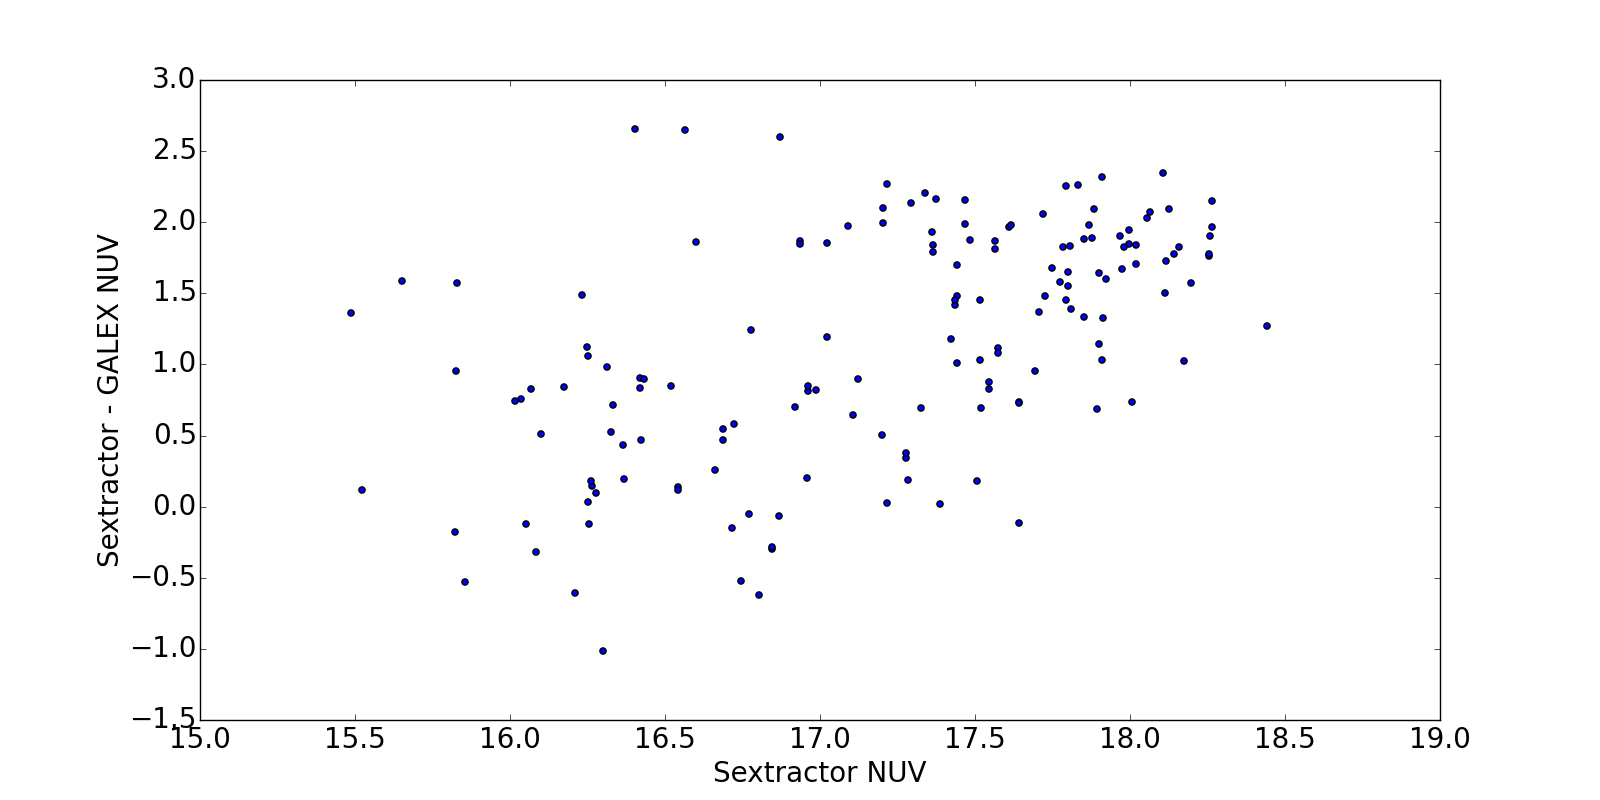
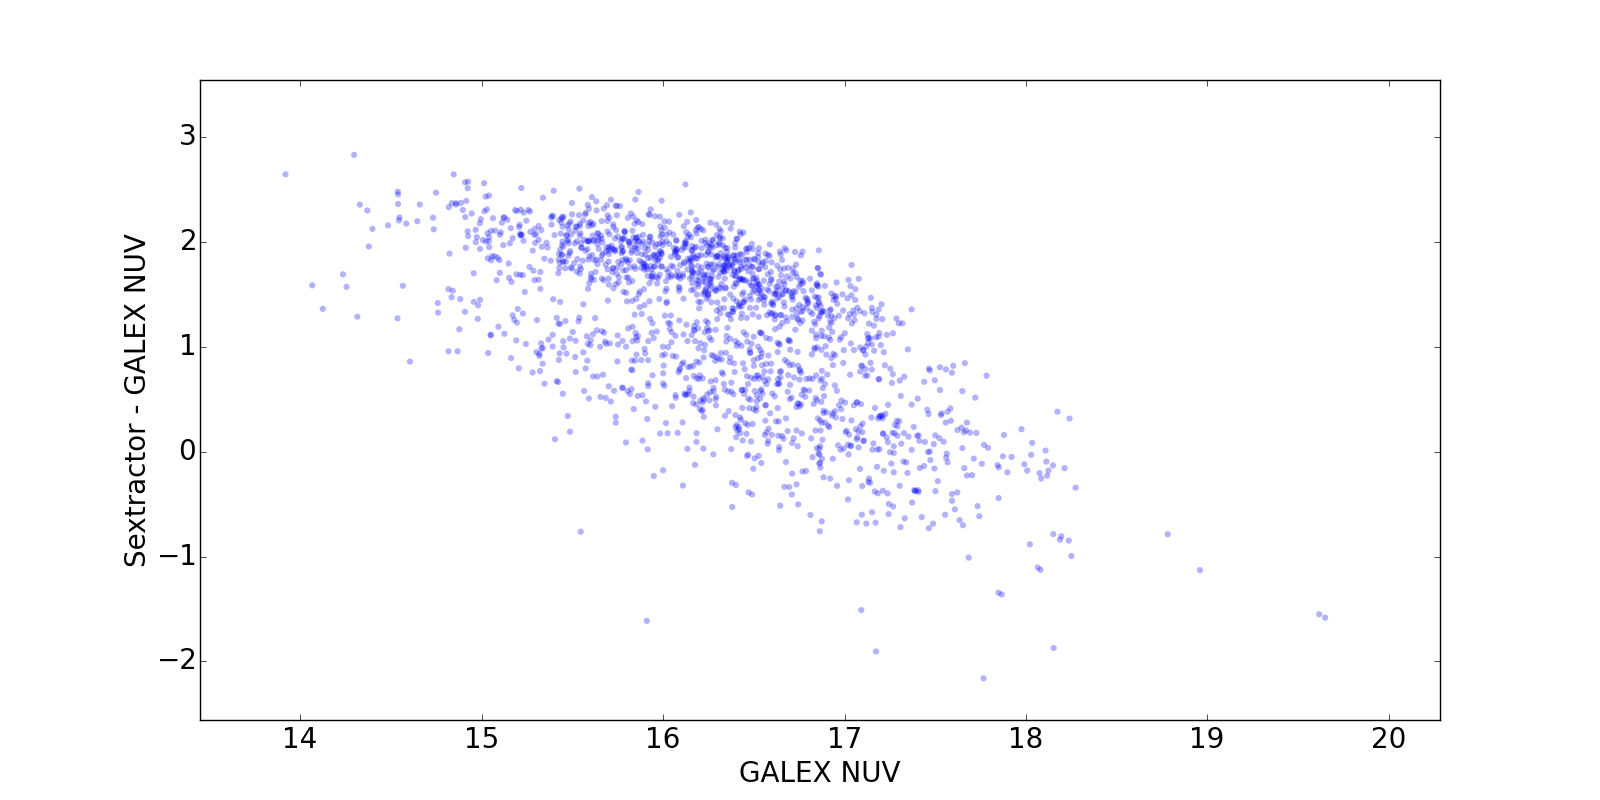
Edited GALEX sky image

diff --git a/pipeline/misc.py b/pipeline/misc.py
@@ -99,3 +99,51 @@ for i in range(2000):
             pass
 
 
+star = fits.open('starcatalog_120_rand_deadtime.fits')[1].data
+galex = Table.read('galex120_2mass_t2.txt',format='ascii')
+pickles = Table.read('picklemags.txt',format='ascii')
+
+stargal = SkyCoord(star.gl*u.deg,star.gb*u.deg,frame='galactic')
+galexgal = SkyCoord(galex['gl']*u.deg,galex['gb']*u.deg,frame='galactic')
+starind, galexind, angsep, dist3d = search_around_sky(stargal, galexgal, 6.*u.arcsec)
+star2 = star[starind]
+galex2 = galex[galexind]
+
+i = 120
+gbrange = 5.
+scut = np.where((np.abs(star2.gb) > gbrange) & (star2.gl > i) & (star2.gl < i+20))
+scut2 = np.where((np.abs(star2.gb) < gbrange) & (star2.gl > i) & (star2.gl < i+20))
+ncut = np.where(np.abs(galex2['gb']) > gbrange)
+ncut2 = np.where(np.abs(galex2['gb']) < gbrange)
+f, (ax1, ax2) = plt.subplots(1, 2)
+plt.rc('legend',**{'fontsize':15})
+a1 = ax1.scatter(galex2['nuv_mag'][ncut],star2.nuv[scut]-galex2['nuv_mag'][ncut],edgecolor='none',alpha=0.2)
+ax1.set_title('gb > '+str(gbrange)+', gl = '+str(i)+' to '+str(i+20))
+ax1.set_xlim((13,20))
+ax1.set_ylim((-2,3))
+ax1.set_xlabel('GALEX NUV')
+ax1.set_ylabel('SExtractor - GALEX NUV')
+#ax1.plot([-0.5,1.5],[3,12])
+#a2 = ax1.scatter(galex['j_m'][ncut]-galex['k_m'][ncut],galex['nuv_mag'][ncut]-galex['j_m'][ncut],facecolor='none',edgecolor='red',s=30,alpha=0.2)
+#a3 = ax1.scatter(pickles['j']-pickles['k'],pickles['nuv']-pickles['j'],c='black',s=5)
+#for j in range(len(pickles)):
+#    ax1.annotate(pickles['name'][j][:-4],xy=(pickles['j'][j]-pickles['k'][j],pickles['nuv'][j]-pickles['j'][j]),size=12)
+#ax1.legend([a1,a2,a3],['sextractor','galex','pickles'],scatterpoints=1,loc=2)
+
+
+a2 = ax2.scatter(galex2['nuv_mag'][ncut2],star2.nuv[scut2]-galex2['nuv_mag'][ncut2],edgecolor='none',alpha=0.2)
+ax2.set_title('gb < '+str(gbrange)+', gl = '+str(i)+' to '+str(i+20))
+ax2.set_xlim((13,20))
+ax2.set_ylim((-2,3))
+ax2.set_xlabel('GALEX NUV')
+ax2.set_ylabel('SExtractor - GALEX NUV')
+#ax2.plot([-0.5,1.5],[3,12])
+#b2 = ax2.scatter(galex['j_m'][ncut2]-galex['k_m'][ncut2],galex['nuv_mag'][ncut2]-galex['j_m'][ncut2],facecolor='none',edgecolor='red',s=30,alpha=0.2)
+
+#b3 = ax2.scatter(pickles['j']-pickles['k'],pickles['nuv']-pickles['j'],c='black',s=5)
+#for j in range(len(pickles)):
+#    ax2.annotate(pickles['name'][j][:-4],xy=(pickles['j'][j]-pickles['k'][j],pickles['nuv'][j]-pickles['j'][j]),size=12)
+
+#ax2.legend([b1,b2,b3],['sextractor','galex','pickles'],scatterpoints=1,loc=2)
+plt.show()
+    

diff --git a/pipeline/galexdatapull.py b/pipeline/galexdatapull.py
@@ -1,10 +1,8 @@
 import numpy as np
-from astropy.io import fits, ascii
+from astropy.io import ascii
 from astropy.table import Table, hstack, vstack
-from matplotlib import pyplot as plt
 from astropy import units as u
 from astropy.coordinates import SkyCoord, search_around_sky
-import os
 
 galexlist = np.loadtxt('../filelists/galexfilelist.txt', dtype='string')
 path = '/home/cal/smohammed/Downloads/'
@@ -44,18 +42,17 @@ finaltable = hstack([ggoid_dec, alpha_j2000, delta_j2000, E_bv, glon, glat, nuv,
 ascii.write(finaltable, '../galex120data.txt')
 
 t2 = Table.read('../tycho2_2mass_matches.txt', format='ipac')
-galexgal = SkyCoord(finaltable['alpha_j2000']*u.deg,finaltable['delta_j2000']*u.deg,frame='icrs')
-t2gal = SkyCoord(t2['ra_01']*u.deg,t2['dec_01']*u.deg,frame='icrs')
+galexgal = SkyCoord(finaltable['alpha_j2000']*u.deg, finaltable['delta_j2000']*u.deg, frame='icrs')
+t2gal = SkyCoord(t2['ra_01']*u.deg, t2['dec_01']*u.deg, frame='icrs')
 
-t2ind, galind, angsep, dist3d = search_around_sky(t2gal, ftabgal, 1.*u.arcsec)
+t2ind, galind, angsep, dist3d = search_around_sky(t2gal, galexgal, 1.*u.arcsec)
 
 t3 = t2[t2ind]
 galex2 = finaltable[galind]
 
-alldata = hstack([galex2,t3])
+alldata = hstack([galex2, t3])
 
-alldata.rename_column('glon','gl')
-alldata.rename_column('glat','gb')
+alldata.rename_column('glon', 'gl')
+alldata.rename_column('glat', 'gb')
 
 ascii.write(alldata, '../galex120_2mass_t2.txt')
-
